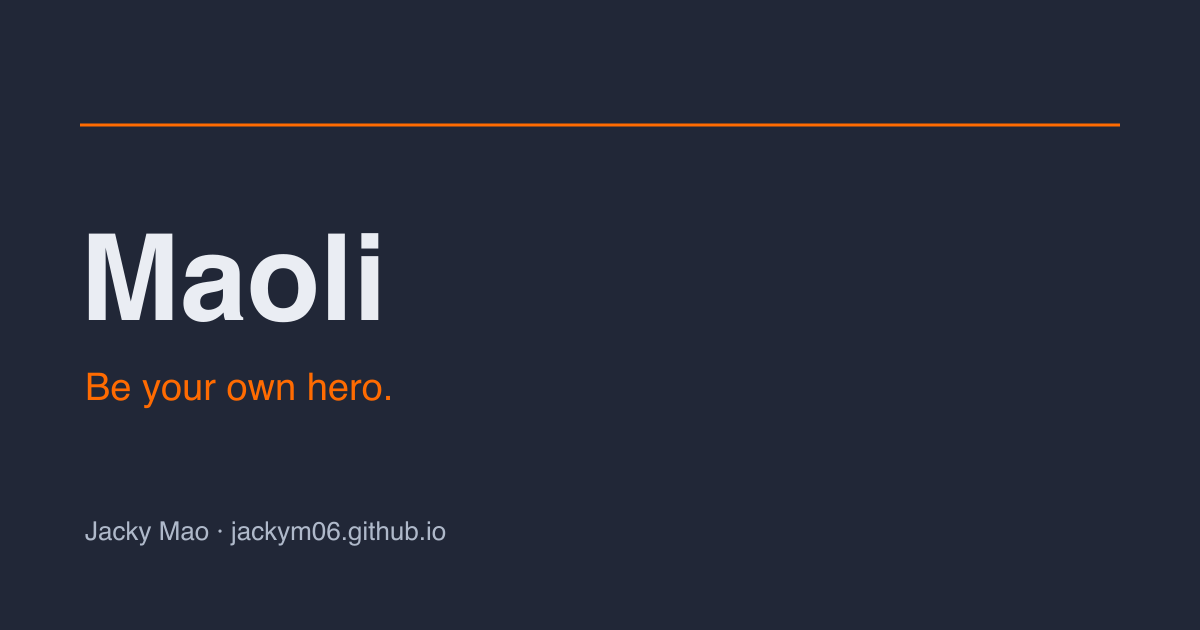
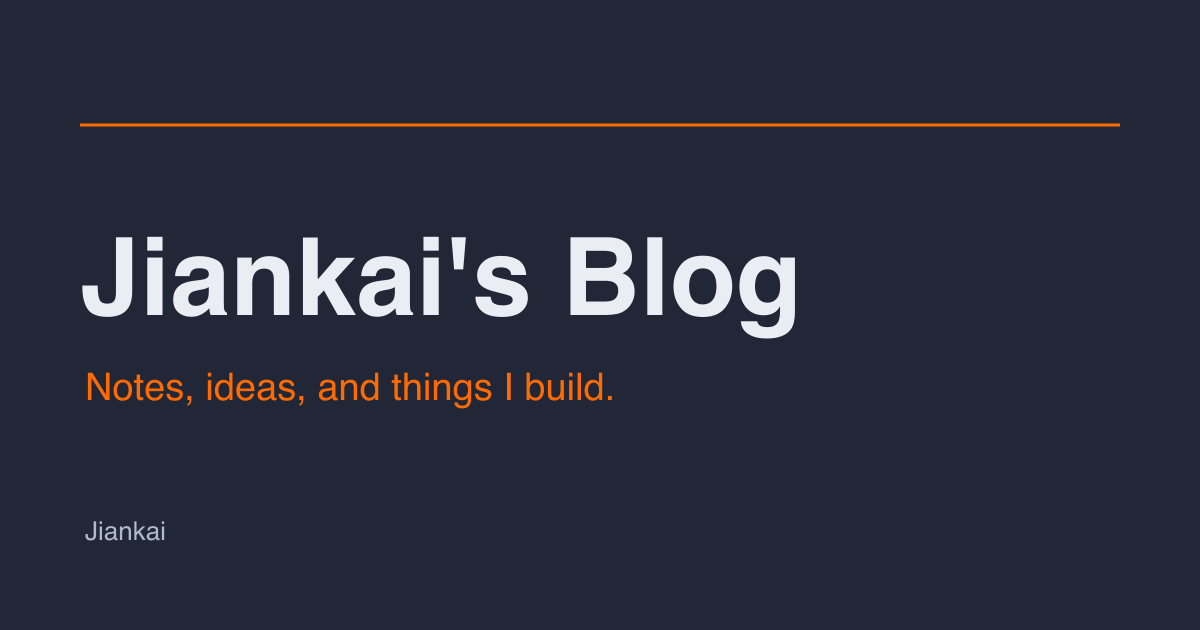
feat(blog): 完善 Jiankai 站点信息与个人履历

Changed region(s): [[0.0617, 0.3619, 0.6783, 0.5429], [0.0617, 0.8143, 0.37, 0.8746], [0.0617, 0.573, 0.5242, 0.6635]]

diff --git a/astro-paper.config.ts b/astro-paper.config.ts
@@ -3,9 +3,9 @@ import { defineAstroPaperConfig } from "./src/types/config";
 export default defineAstroPaperConfig({
   site: {
     url: "https://jackym06.github.io/",
-    title: "Maoli",
-    description: "Jacky Mao 的个人博客，记录前端工程、音视频、AI 与学习随想。",
-    author: "Jacky Mao",
+    title: "Jiankai's Blog",
+    description: "Jiankai 的个人博客，记录前端工程、音视频、AI 与学习随想。",
+    author: "Jiankai",
     profile: "https://github.com/JackyM06",
     ogImage: "og.png",
     lang: "zh-CN",
@@ -28,7 +28,7 @@ export default defineAstroPaperConfig({
     toc: true,
   },
   socials: [
-    { name: "github", url: "https://github.com/JackyM06", linkTitle: "Jacky Mao 的 GitHub" },
+    { name: "github", url: "https://github.com/JackyM06", linkTitle: "Jiankai 的 GitHub" },
   ],
   shareLinks: [
   ],

diff --git a/src/styles/global.css b/src/styles/global.css
@@ -39,9 +39,13 @@
 }
 
 body { overflow-wrap: anywhere; }
-.app-prose { line-height: 1.9; }
+.app-prose {
+  line-height: 1.9;
+  letter-spacing: 0.04em;
+}
 .app-prose :is(pre, code, kbd) {
   font-family: ui-monospace, "SFMono-Regular", Consolas, "Liberation Mono", monospace;
+  letter-spacing: normal;
 }
 .app-prose pre { line-height: 1.65; overflow-x: auto; }
 .app-prose :is(img, video, iframe) { max-width: 100%; }

diff --git a/src/content/pages/about.md b/src/content/pages/about.md
@@ -1,38 +1,41 @@
 ---
 title: "关于"
-description: "关于 Jacky Mao 和 Maoli 博客"
+description: "我的学习与工作经历，以及邮箱和微信联系方式。"
 ---
 
-<a id="关于我"></a>
+**Jiankai(建凯)**
 
-### 关于我
+我是一名开发者，平时关注前端工程、音视频和 AI。喜欢围绕具体问题动手实践，把解决问题的过程、尝试过的方案和踩过的坑整理下来。
 
-一个不够格的Coder。当程序员是为了生活，而写代码是为了梦想。未来嘛，未来我要当太空人……，哦不好意思走错片场了，未来我要想法子挣钱哈哈 `over`
+我从 2018 年开始写博客，在这里记录从在校学习到工作后的探索。文章既有项目实践，也有学习笔记和阶段性的思考，欢迎交流。
 
-<a id="关于博客"></a>
+## 我的经历
 
-### 关于博客
+<ol class="career-timeline" aria-label="学习与工作经历">
+  <li>
+    <p class="career-period"><time datetime="2017">2017</time> — <time datetime="2021">2021</time></p>
+    <div class="career-entry">
+      <h3>淮南师范学院</h3>
+      <p>计算机科学与技术专业</p>
+    </div>
+  </li>
+  <li class="career-current">
+    <p class="career-period"><time datetime="2021">2021</time> — 至今</p>
+    <div class="career-entry">
+      <div class="career-heading">
+        <h3>快手</h3>
+        <span class="career-status">在职</span>
+      </div>
+      <ul>
+        <li><strong>运营活动开发</strong>：活动页面、交互及相关业务功能开发。</li>
+        <li><strong>低代码 / 无代码平台开发</strong>：平台功能与可视化搭建能力开发，支持业务页面的搭建与维护。</li>
+        <li><strong>业务 Agent 开发</strong>：基于 LangGraph 构建面向业务场景的 Agent 应用。</li>
+      </ul>
+    </div>
+  </li>
+</ol>
 
-<a id="用途"></a>
+## 联系我
 
-#### 用途
-
-自己在算法以及数据结构上遇到的问题与解决问题的思路与方法都会在博客中讨论，当然还有其他学习方面遇到的一些问题和一些技术经验都会在博客里分享。
-
-博客中有不对或者能够改进的地方欢迎评论指出或私信我。
-
-这里收录从 2018 年开始的技术文章，支持按分类、标签和时间浏览，也可以搜索全文。
-
-<a id="基于"></a>
-
-#### 基于
-
-> 当前基于 [Astro](https://astro.build/)、[AstroPaper](https://github.com/satnaing/astro-paper) 与 [GitHub Pages](https://pages.github.com/)搭建。最初使用 Hexo 与 NexT，旧文章的网址继续保留。  
-> 十分感谢 [LeanCloud](https://leancloud.cn/)、[baidu统计](https://tongji.baidu.com/web/welcome/login)、[LocalSearchForum](https://www.localsearchforum.com/)、[busuanzi](http://busuanzi.ibruce.info/)、[DaoVoice](https://www.daocloud.io/)等提供数据支持。  
-> 以及各位大佬网友的经验文章。
-
-<a id="联系方式"></a>
-
-### 联系方式
-
-Email:[ChinaMJK06@163.com](mailto:ChinaMJK06@163.com)
+- 邮箱：[ChinaMJK06@163.com](mailto:ChinaMJK06@163.com)
+- 微信：`joker_mario`

diff --git a/content/posts/2019/08/07/VueCli构建工具.md b/content/posts/2019/08/07/VueCli构建工具.md
@@ -43,7 +43,7 @@ tags: ["Vue.js","VueCli","webpack"]
     
     ? Project description (A Vue.js project)  ## 填写项目介绍
     
-    ? Author MaoJacky <34392872+JackyM06@users.noreply.github.com>   ## 填写作者信息，默认读取全局git中的信息
+    ? Author Jiankai <your-email@example.com>   ## 填写作者信息，默认读取全局git中的信息
     
     ? Vue build  ## 选择一个构建方式，初学者建议选择第一个，后文有介绍这两种方式的区别
     	> Runtime + Compiler: recommended for most users

diff --git a/content/posts/2022/05/18/浅谈现代浏览器的网页生命周期.md b/content/posts/2022/05/18/浅谈现代浏览器的网页生命周期.md
@@ -316,7 +316,7 @@ unload事件在页面在卸载时触发。经过这个事件，网页进入 Term
 
 这里准备了一个日志页面，能够记录页面生命周期变化过程中所触发事件信息：
 
-[https://codepen.io/jackym06/full/QWvXoLd](https://codepen.io/jackym06/full/QWvXoLd "https://codepen.io/jackym06/full/QWvXoLd")
+[交互演示（CodePen）](https://codepen.io/jackym06/full/QWvXoLd "查看交互演示")
 
 <a id="建议与实践"></a>
 

diff --git a/README.md b/README.md
@@ -1,4 +1,4 @@
-# Maoli 博客
+# Jiankai's Blog
 
 个人技术博客，使用 [Astro](https://astro.build/) 和 [AstroPaper 7.1.0](https://github.com/satnaing/astro-paper) 构建，部署目标为 GitHub Pages。
 
